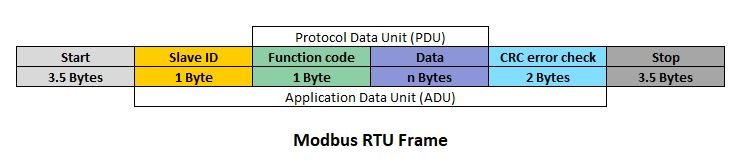
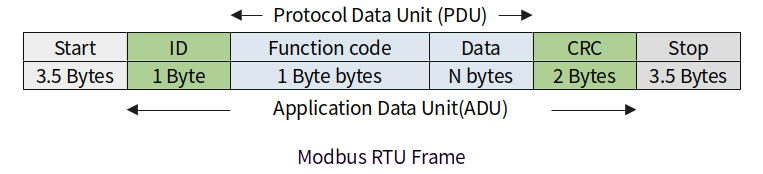
vault backup: 2023-10-18 14:50:20

diff --git a/Protocl/Modbus.md b/Protocl/Modbus.md
@@ -19,7 +19,7 @@ Gateway는 Modbus Protocol을 사용하여 모든 버스 도는 네트워크 간
 ### 3. General Description
 #### 3.1  Protocol Description  
 MODBUS 프로토콜은 기본 통신 계층과 관계없이 간단한 PDU(프로토콜 데이터 단위)를 정의합니다. 특정 버스나 네트워크에서 MODBUS 프로토콜을 매핑하면 ADU(응용 프로그램 데이터 단위)에 몇 가지 추가 필드가 추가될 수 있습니다.  
-![[Pasted image 20231018143138.png]]
+![[modbusRTUFrame.png]]
 
 | Name                  | Lenth(bits) | Function                                                                                                                                                                                           |
 |:----------------------|:------------|:---------------------------------------------------------------------------------------------------------------------------------------------------------------------------------------------------|
